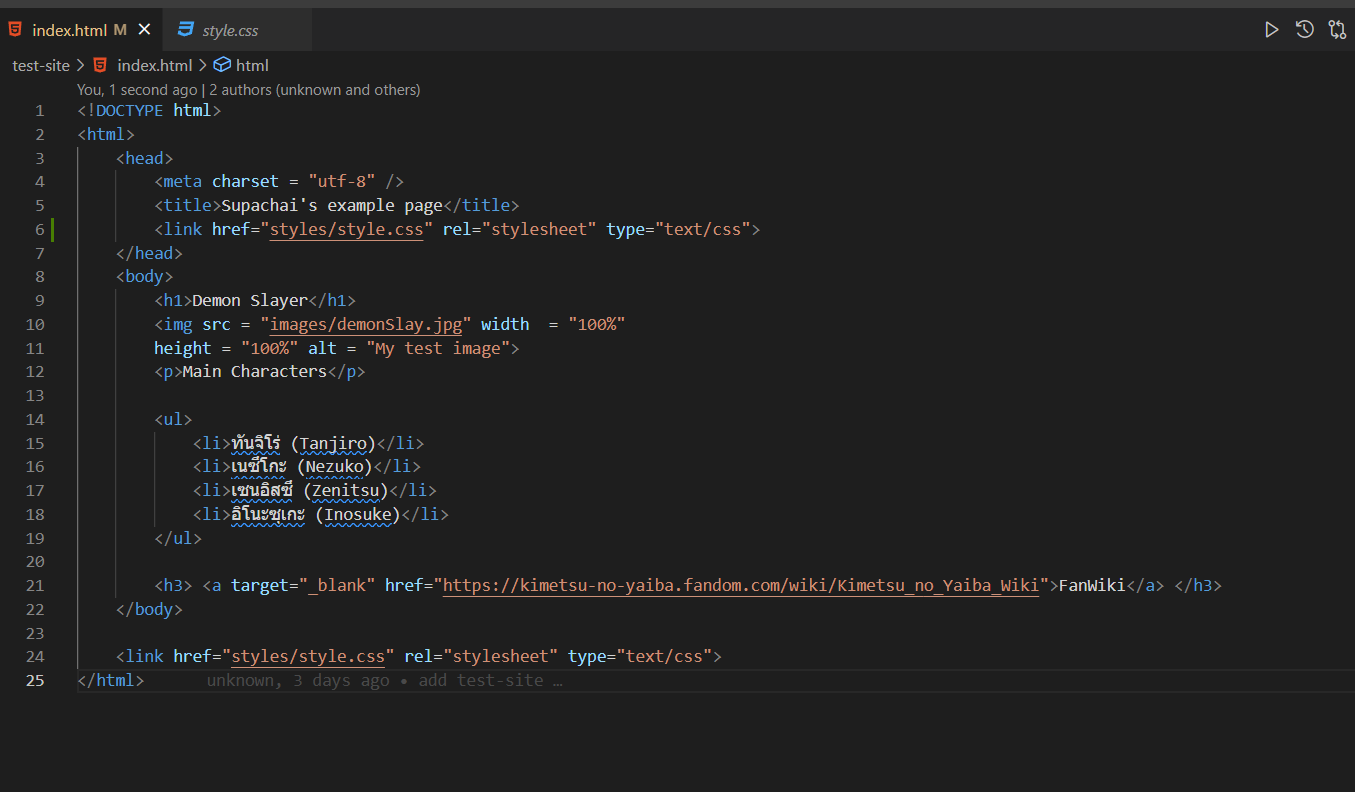
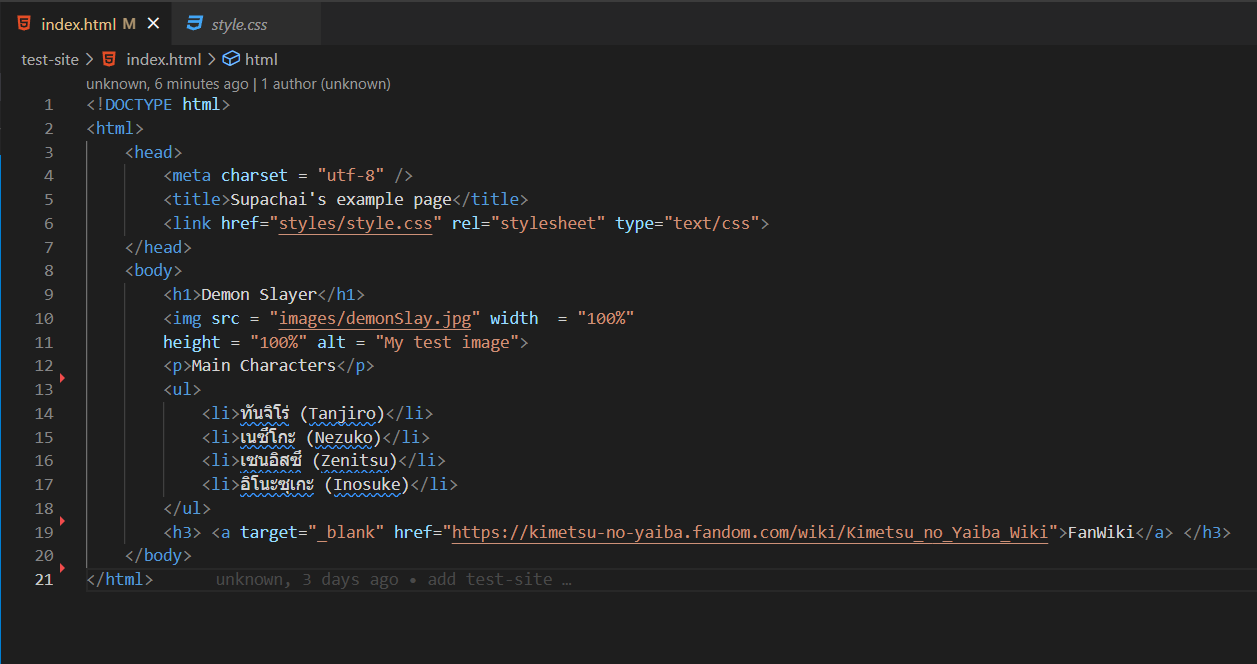
change index.html

diff --git a/test-site/index.html b/test-site/index.html
@@ -10,16 +10,12 @@
         <img src = "images/demonSlay.jpg" width  = "100%"
         height = "100%" alt = "My test image">
         <p>Main Characters</p>
-
         <ul>
             <li>ทันจิโร่ (Tanjiro)</li>
             <li>เนซึโกะ (Nezuko)</li>
             <li>เซนอิสซึ (Zenitsu)</li>
             <li>อิโนะซุเกะ (Inosuke)</li>
         </ul>
-
         <h3> <a target="_blank" href="https://kimetsu-no-yaiba.fandom.com/wiki/Kimetsu_no_Yaiba_Wiki">FanWiki</a> </h3>
     </body>
-
-    <link href="styles/style.css" rel="stylesheet" type="text/css">
 </html>
